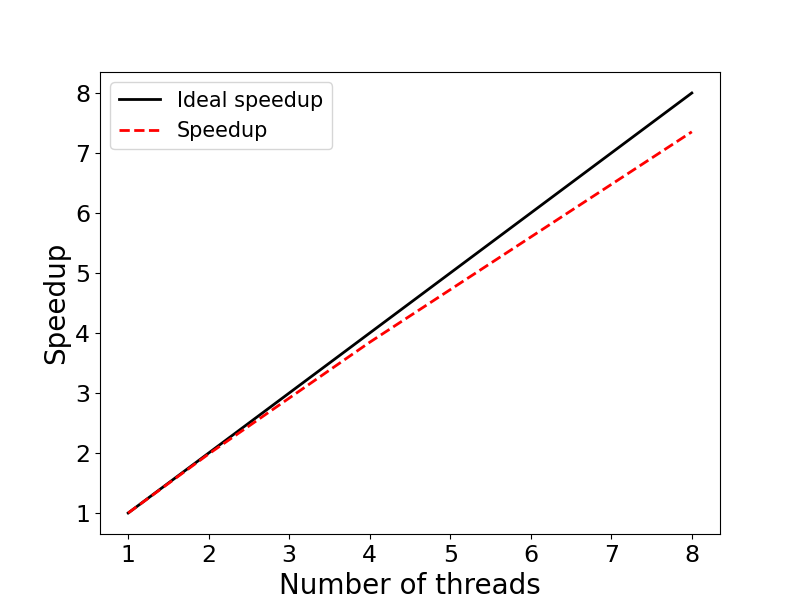
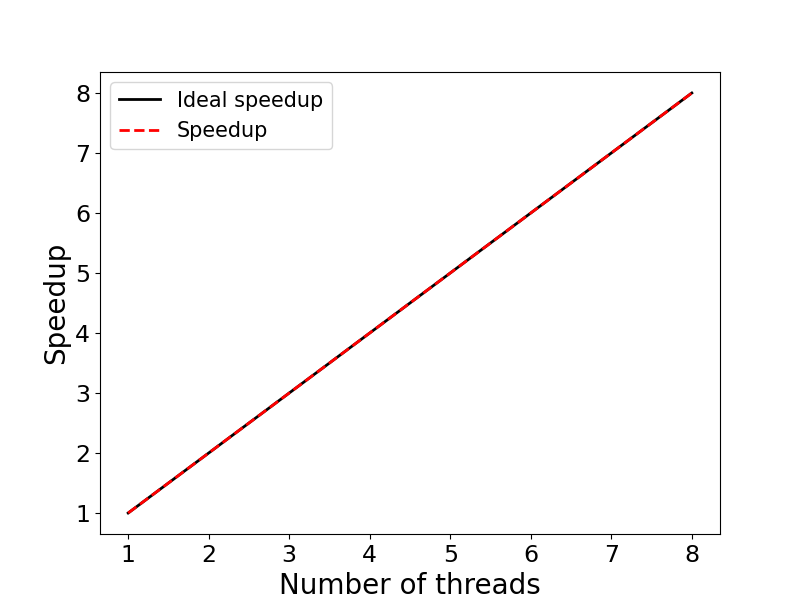
Updated parallel OMP examples

diff --git a/Parallel_Computing/OpenMP/README.md b/Parallel_Computing/OpenMP/README.md
@@ -1,3 +1,4 @@
 ### Contents:
-* Example1: OpenMP parallel region (C)
-* Example2: OpenMP diagonalization of a symmetric matrix (Fortran)
+* [Example1](Example1/): OpenMP parallel region (C)
+* [Example2](Example2/): OpenMP diagonalization of a symmetric matrix (Fortran)
+* [Example3](Example3/): OpenMP scaling illustartion - Parallel Monte Carlo calculation of $\pi$ (C)
